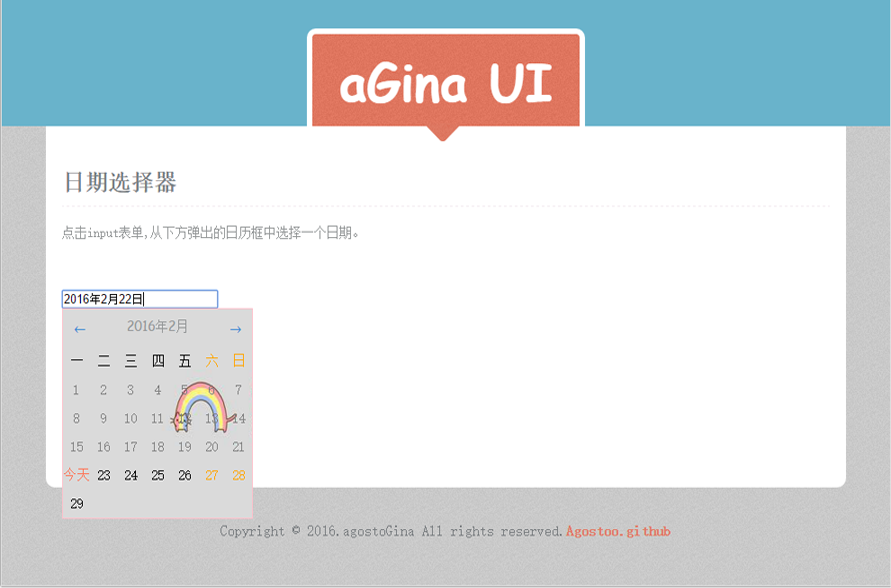
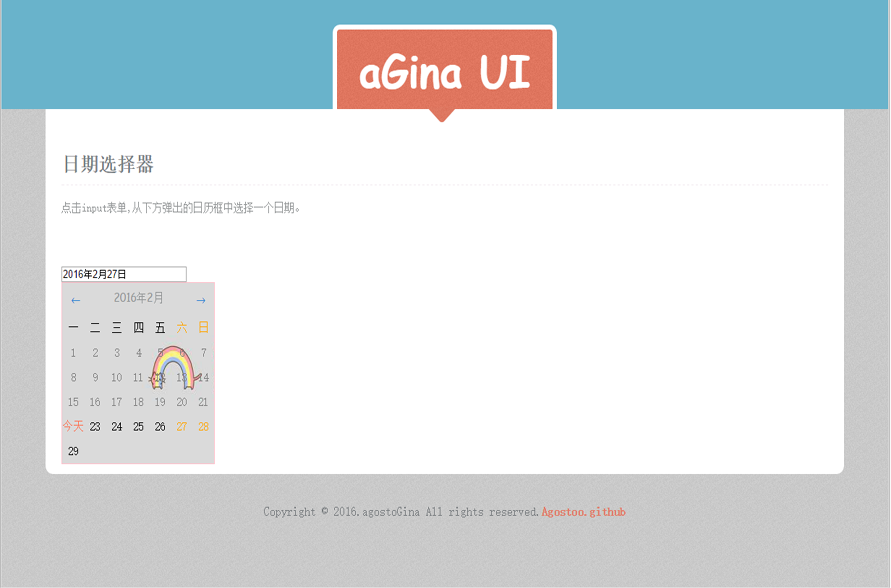
change date

Changed region(s): [[0.0303, 0.2449, 0.9697, 0.9184], [0.0, 0.0, 1.0, 0.2449]]

diff --git a/datepicker.html b/datepicker.html
@@ -48,7 +48,7 @@
 		       <h2>日期选择器</h2>
                 <p>点击input表单,从下方弹出的日历框中选择一个日期。</p>		 	 
 		 	   <div class="showEffect">						
-					<div id="portfoliolist" class="clearfix">
+					<div id="portfoliolist" class="clearfix pos-relative">
 						<input type="text" id="txt">
 					</div>
 			    </div>
